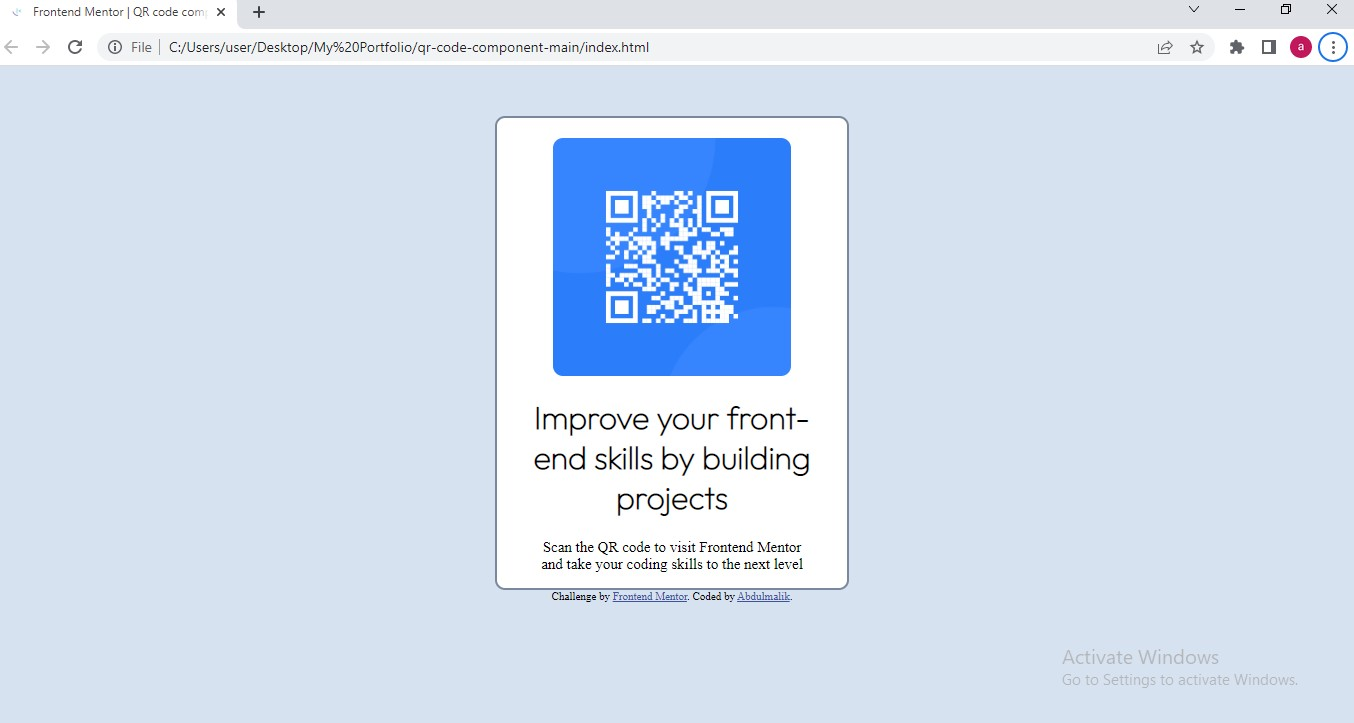
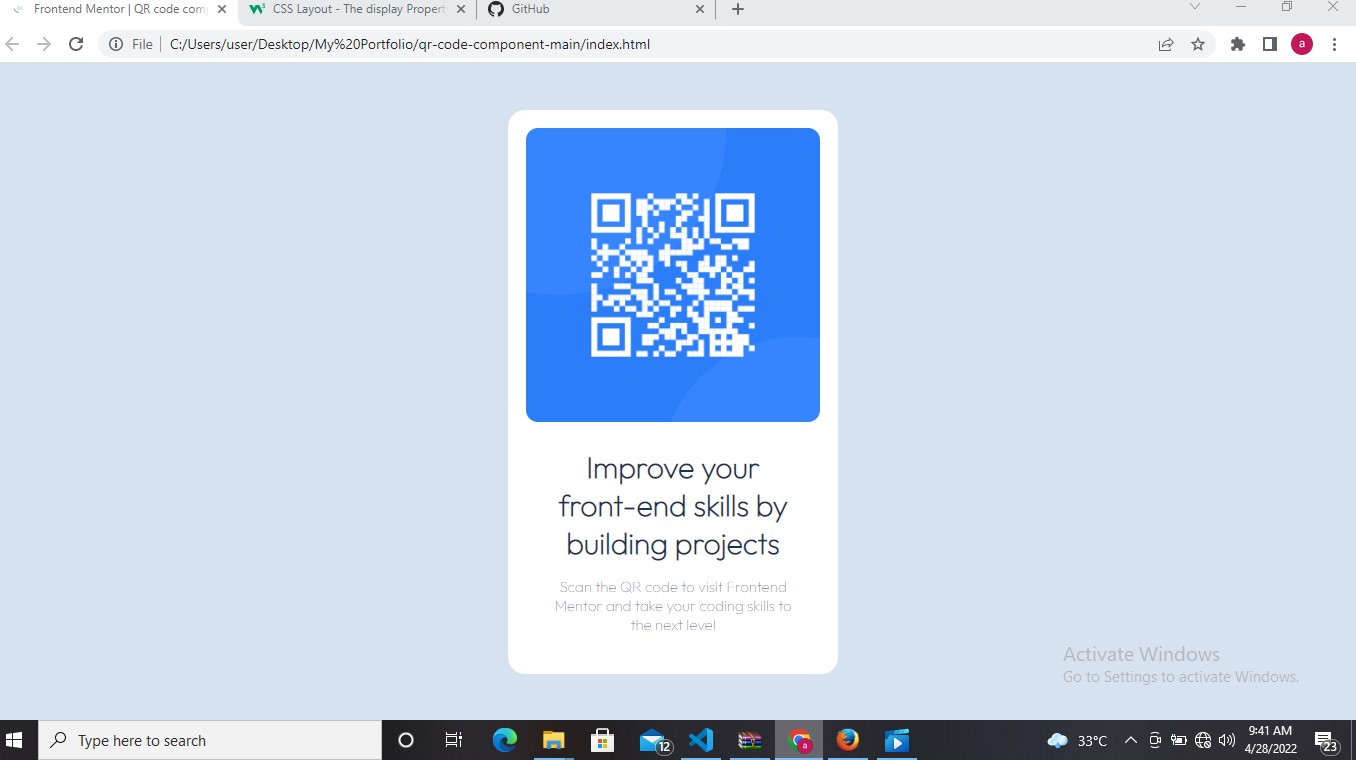
Upload web

Changed region(s): [[0.3412, 0.1217, 0.6514, 0.9129], [0.0, 0.852, 1.0, 1.0], [0.0, 0.0, 1.0, 0.0913]]

diff --git a/index.html b/index.html
@@ -14,64 +14,62 @@
 
   <!-- Feel free to remove these styles or customise in your own stylesheet 👍 -->
   <style>
-    .attribution { font-size: 11px; text-align: center; }
-    .attribution a { color: hsl(228, 45%, 44%); }
+
+    *{
+      margin: 0;
+      padding: 0;
+    }
 
     body {
+      font-family: 'Outfit', sans-serif;
       background-color: hsl(212, 45%, 89%);
+      min-height: 100vh;
+      display: flex;
+      align-items: center;
+      font-size: 15px;
     }
 
     .container {
-      height: 450px;
-      width: 350px;
-      border: 2px solid hsl(220, 15%, 55%);
-      border-radius: 10px;
-      margin: auto;
-      margin-top: 50px;
-      padding-top: 20px;
-      text-align: center;
+      max-width: 360px;
+      margin: 0 auto;
+    }
+
+    .card {
       background-color: hsl(0, 0%, 100%);
+      padding: 18px;
+      border-radius: 17px;
+      text-align: center;
+      margin: 0 1em;
     }
 
-    .container .contents {
-      display: block;
-      margin-left: auto;
-      margin-right: auto;
-      width: 80%;
-    }
-    
-
-    .container .contents img{
-      display: block;
-      margin-left: auto;
-      margin-right: auto;
-      width: 85%;
-      border-radius: 10px;
+    .card img {
+      width: 100%;
+      border-radius: 12px;
     }
 
-    p {
-      font-size: 15px;
-      font-weight: 400;
+    .text {
+      padding: 22px 18px;
     }
 
-    h1{
-      font-weight: 700;
-      font-family: 'Outfit', sans-serif;
+    .text h1{
+      color: hsl(218, 44%, 22%);
+      padding-bottom: 15px;
+    }
+
+    .text p {
+      color: hsl(220, 15%, 55%);
     }
   </style>
 </head>
 <body>
   <div class="container">
-    <div class="contents">
-    <img src="./images/image-qr-code.png">
-    <h1>Improve your front-end skills by building projects</h1>
-    <p>Scan the QR code to visit Frontend Mentor and take your coding skills to the next level</p>
+    <div class="card">
+     <img src="./images/image-qr-code.png">
+      <div class="text">
+        <h1>Improve your front-end skills by building projects</h1>
+        <p>Scan the QR code to visit Frontend Mentor and take your coding skills to the next level</p>
+      </div>
     </div>
-  </div>
-  
-  <div class="attribution">
-    Challenge by <a href="https://www.frontendmentor.io?ref=challenge" target="_blank">Frontend Mentor</a>. 
-    Coded by <a href="#">Abdulmalik</a>.
   </div>
 </body>
 </html>

diff --git a/README-template.md b/README-template.md
@@ -35,7 +35,9 @@ This is a solution to the [QR code component challenge on Frontend Mentor](https
 
 - Semantic HTML5 markup
 - CSS custom properties
+- Flexbox
 
+**Note: These are just examples. Delete this note and replace the list above with your own choices**
 
 ### What I learned
 
@@ -57,9 +59,6 @@ const proudOfThisFunc = () => {
 }
 ```
 
-If you want more help with writing markdown, we'd recommend checking out [The Markdown Guide](https://www.markdownguide.org/) to learn more.
-
-**Note: Delete this note and the content within this section and replace with your own learnings.**
 
 ### Continued development
 
@@ -67,6 +66,12 @@ Use this section to outline areas that you want to continue focusing on in futur
 
 **Note: Delete this note and the content within this section and replace with your own plans for continued development.**
 
+### Useful resources
+
+- [Example resource 1](https://www.example.com) - This helped me for XYZ reason. I really liked this pattern and will use it going forward.
+- [Example resource 2](https://www.example.com) - This is an amazing article which helped me finally understand XYZ. I'd recommend it to anyone still learning this concept.
+
+**Note: Delete this note and replace the list above with resources that helped you during the challenge. These could come in handy for anyone viewing your solution or for yourself when you look back on this project in the future.**
 
 ## Author
 
